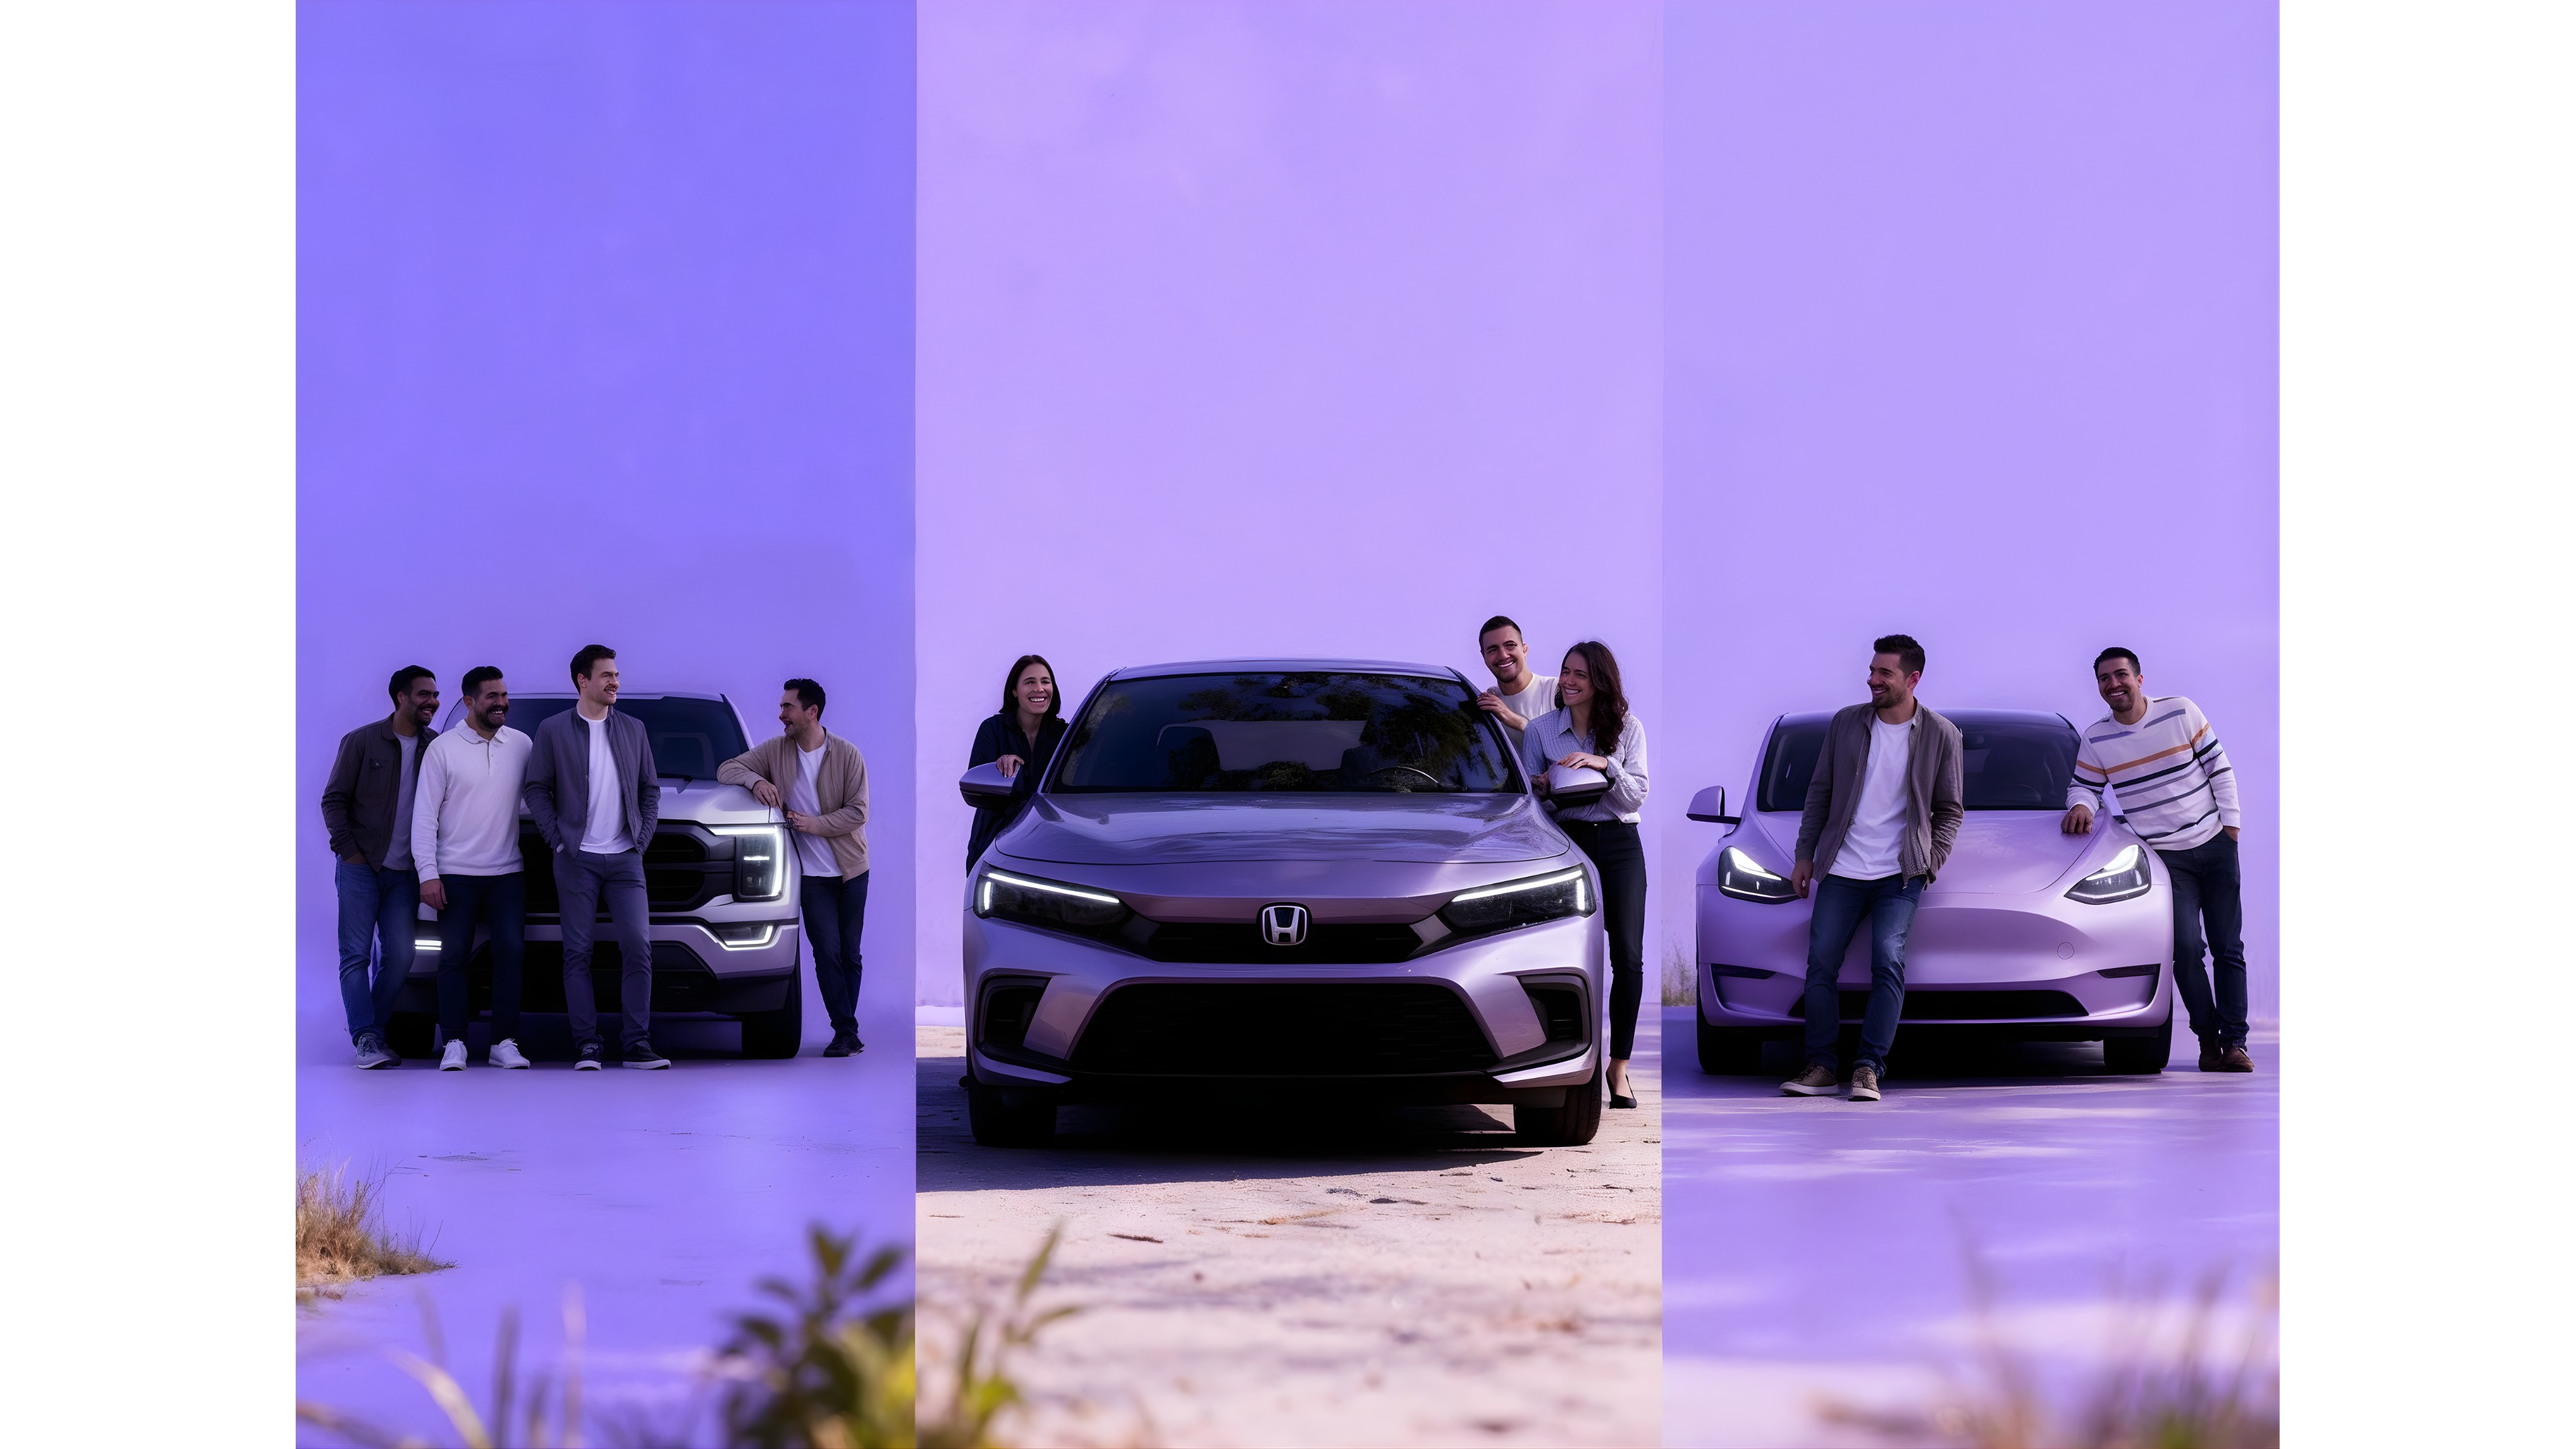
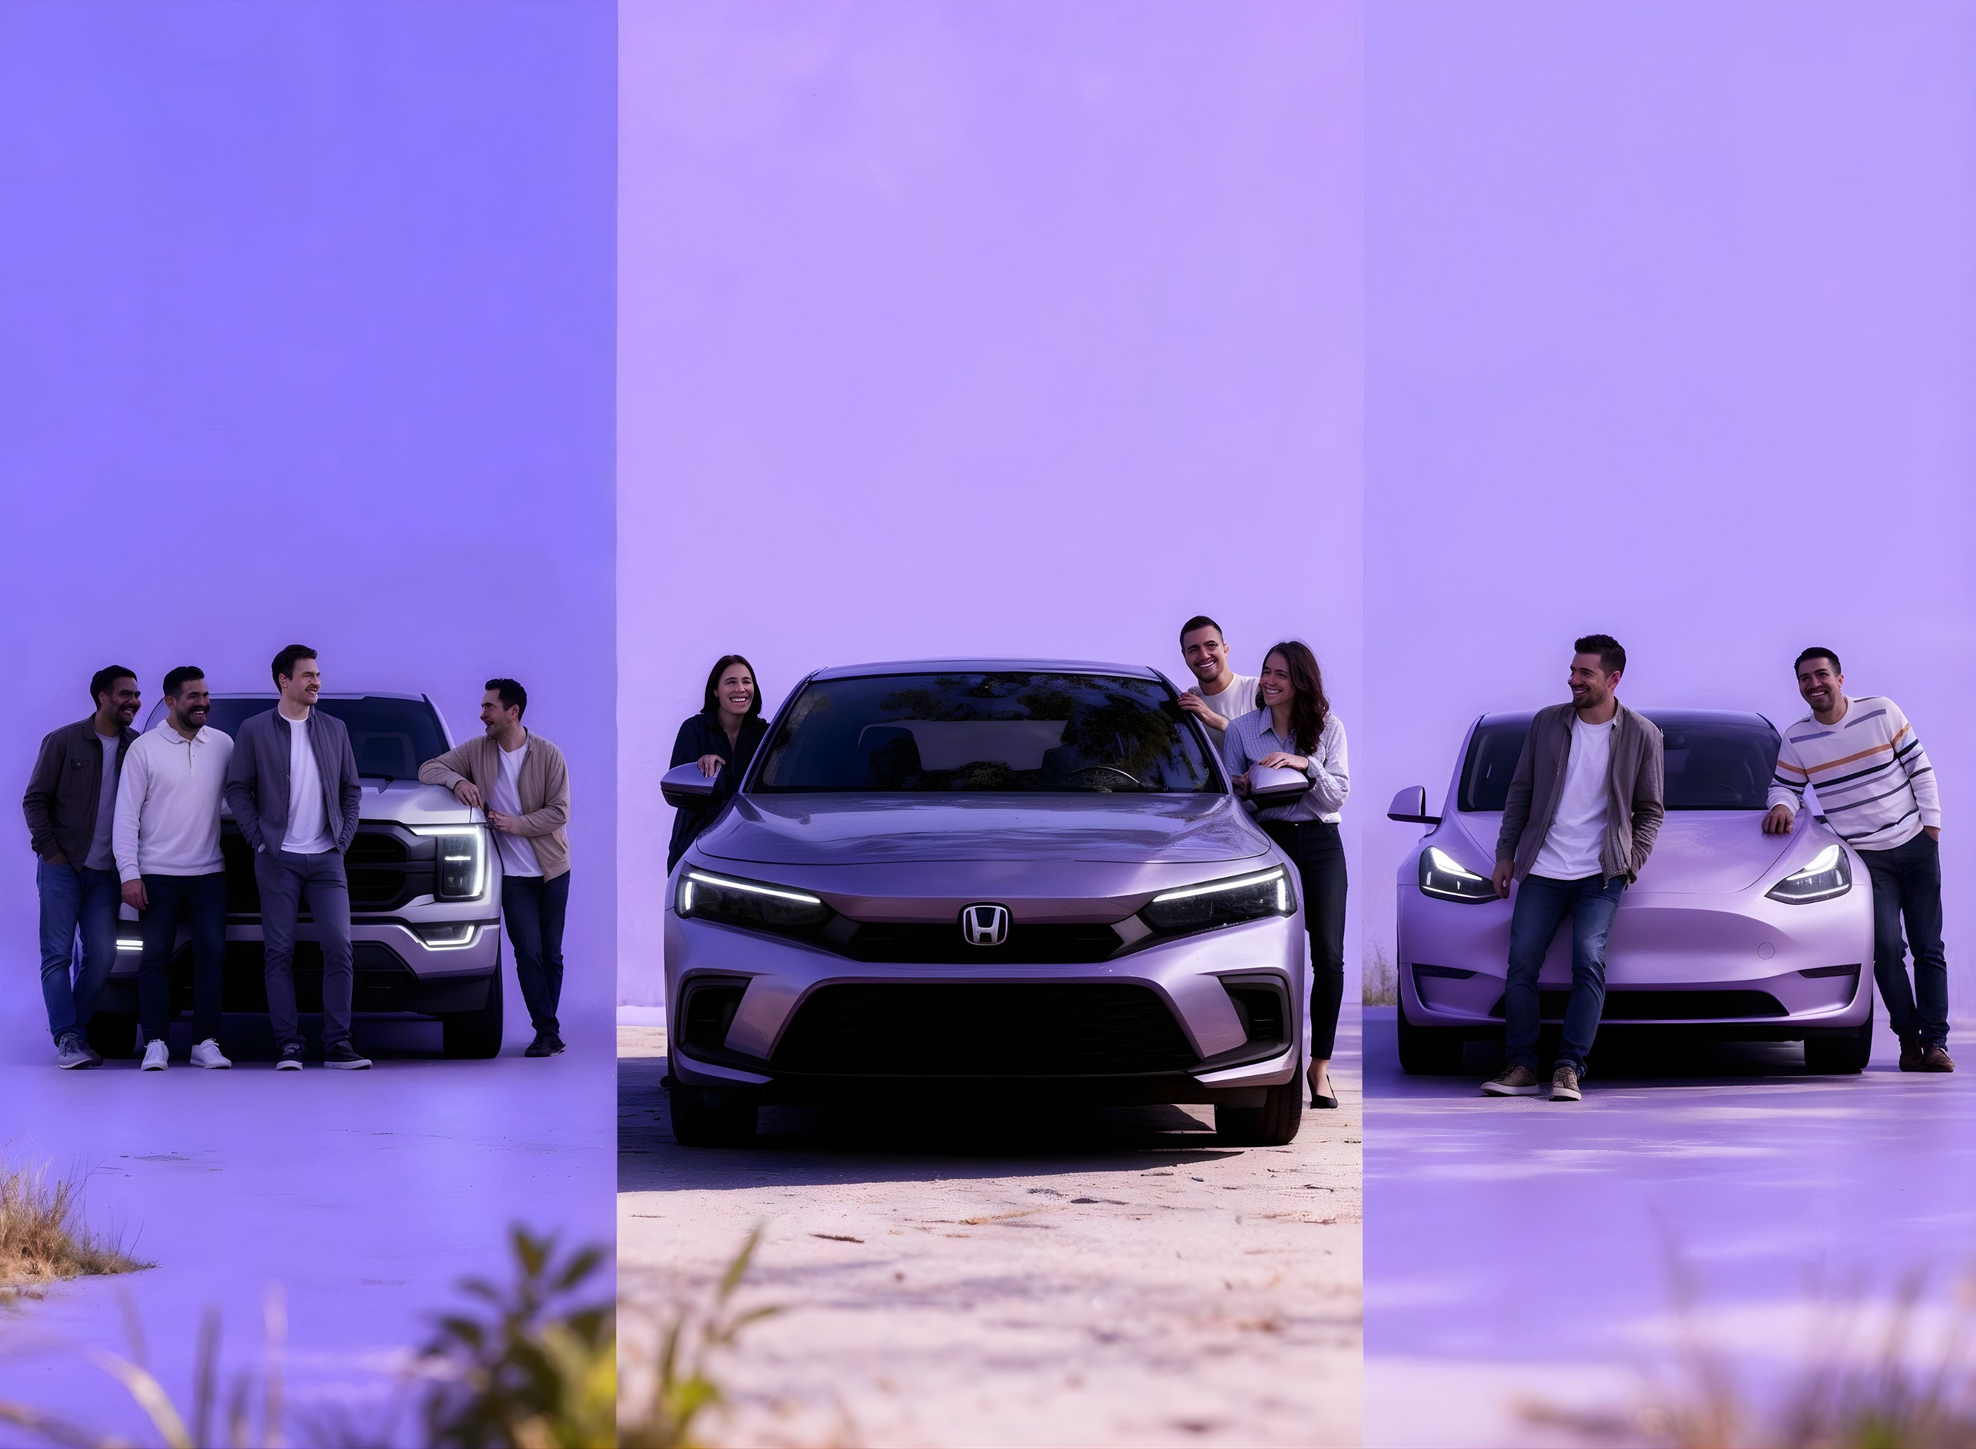
AutoDNA SkipTheDealer: remove 440px letterbox white pillars from dealer hero photo, restoring pure edge-to-edge lavender studio backdrop

diff --git a/skipthedealer.html b/skipthedealer.html
@@ -87,7 +87,7 @@
 <section class="dealer-hero" id="home" aria-label="SkipTheDealer Hero">
     <!-- 1. Full-bleed background photo covering 100% width & 100% height (NO black bars!) -->
     <div class="dealer-hero__bg">
-      <img src="assets/img/site1/dealer-hero-bg-photo.jpg" alt="SkipTheDealer Fleet" class="dealer-hero__bg-img" fetchpriority="high">
+      <img src="assets/img/site1/dealer-hero-bg-photo.png" alt="SkipTheDealer Fleet" class="dealer-hero__bg-img" fetchpriority="high">
       <div class="dealer-hero__shade-top" aria-hidden="true"></div>
       <div class="dealer-hero__shade-bottom" aria-hidden="true"></div>
     </div>

diff --git a/wp-theme/autodna/page-skipthedealer.php b/wp-theme/autodna/page-skipthedealer.php
@@ -16,7 +16,7 @@ get_header(); ?>
 <section class="dealer-hero" id="home" aria-label="SkipTheDealer Hero">
     <!-- 1. Full-bleed background photo covering 100% width & 100% height (NO black bars!) -->
     <div class="dealer-hero__bg">
-      <img src="<?php echo esc_url( get_template_directory_uri() ); ?>/assets/img/site1/dealer-hero-bg-photo.jpg" alt="SkipTheDealer Fleet" class="dealer-hero__bg-img" fetchpriority="high">
+      <img src="<?php echo esc_url( get_template_directory_uri() ); ?>/assets/img/site1/dealer-hero-bg-photo.png" alt="SkipTheDealer Fleet" class="dealer-hero__bg-img" fetchpriority="high">
       <div class="dealer-hero__shade-top" aria-hidden="true"></div>
       <div class="dealer-hero__shade-bottom" aria-hidden="true"></div>
     </div>
